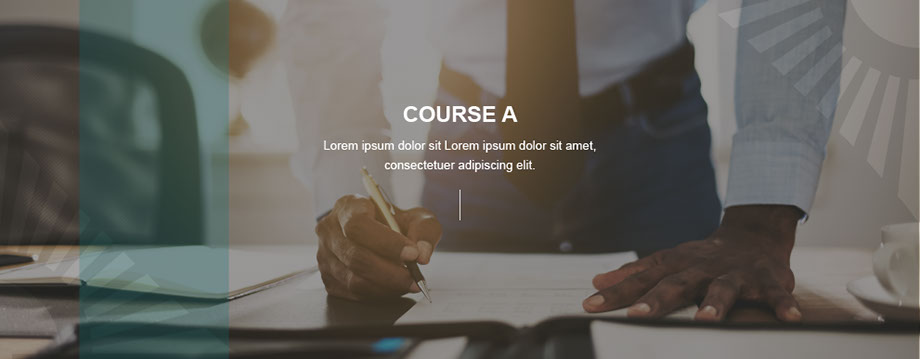
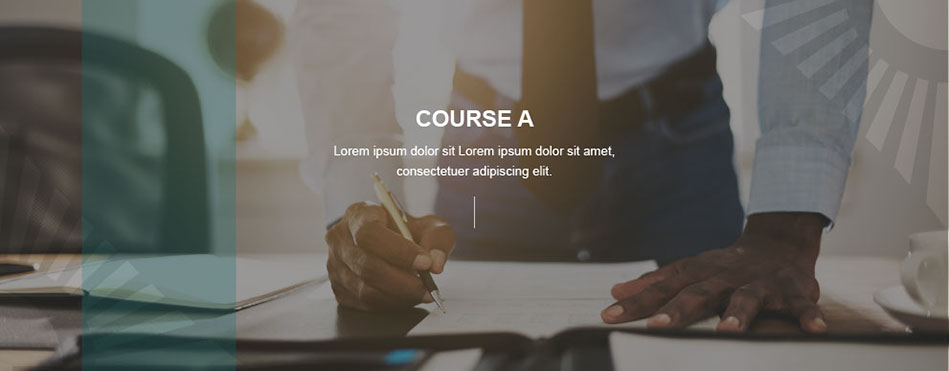
Add files via upload

Changed region(s): [[0.3348, 0.3983, 0.6696, 0.4903], [0.4565, 0.2758, 0.5783, 0.337]]

diff --git a/index.html b/index.html
@@ -11,90 +11,157 @@
 document.documentElement.className = document.documentElement.className.replace(/\bnojs\b/g, 'js');
 
 // Check that all required assets are uploaded and up-to-date
-if(typeof Muse == "undefined") window.Muse = {}; window.Muse.assets = {"required":["museutils.js", "museconfig.js", "jquery.watch.js", "webpro.js", "musewpslideshow.js", "jquery.museoverlay.js", "touchswipe.js", "require.js", "index.css"], "outOfDate":[]};
+if(typeof Muse == "undefined") window.Muse = {}; window.Muse.assets = {"required":["museutils.js", "museconfig.js", "jquery.watch.js", "webpro.js", "musewpslideshow.js", "jquery.museoverlay.js", "touchswipe.js", "jquery.museresponsive.js", "require.js", "index.css"], "outOfDate":[]};
 </script>
   
   <title>Home</title>
   <!-- CSS -->
   <link rel="stylesheet" type="text/css" href="css/site_global.css?crc=444006867"/>
-  <link rel="stylesheet" type="text/css" href="css/index.css?crc=4106648807" id="pagesheet"/>
+  <link rel="stylesheet" type="text/css" href="css/index.css?crc=496673846" id="pagesheet"/>
+  <!-- IE-only CSS -->
+  <!--[if lt IE 9]>
+  <link rel="stylesheet" type="text/css" href="css/nomq_index.css?crc=4022857590" id="nomq_pagesheet"/>
+  <![endif]-->
    </head>
  <body>
 
-  <div class="clearfix borderbox" id="page"><!-- column -->
-   <div class="SlideShowWidget clearfix colelem" id="slideshowu511" data-visibility="changed" style="visibility:hidden"><!-- none box -->
-    <div class="popup_anchor allow_click_through grpelem" data-col-pos="0" id="u521popup">
-     <div class="SlideShowContentPanel clearfix" data-col-pos="0" id="u521"><!-- stack box -->
-      <div class="SSSlide clip_frame grpelem" data-col-pos="0" id="u690"><!-- image -->
-       <img class="block ImageInclude" data-col-pos="0" id="u690_img" data-src="images/a-crop-u690.jpg?crc=49518448" src="images/blank.gif?crc=4208392903" alt="" data-heightwidthratio="0.39021739130434785" data-image-width="920" data-image-height="359"/>
-      </div>
-      <div class="SSSlide invi clip_frame grpelem" data-col-pos="1" id="u710"><!-- image -->
-       <img class="block ImageInclude" data-col-pos="1" id="u710_img" data-src="images/b-crop-u710.jpg?crc=4045455364" src="images/blank.gif?crc=4208392903" alt="" data-heightwidthratio="0.39021739130434785" data-image-width="920" data-image-height="359"/>
-      </div>
-      <div class="SSSlide invi clip_frame grpelem" data-col-pos="2" id="u730"><!-- image -->
-       <img class="block ImageInclude" data-col-pos="2" id="u730_img" data-src="images/c-crop-u730.jpg?crc=4042720279" src="images/blank.gif?crc=4208392903" alt="" data-heightwidthratio="0.39021739130434785" data-image-width="920" data-image-height="359"/>
-      </div>
-      <div class="SSSlide invi clip_frame grpelem" data-col-pos="3" id="u750"><!-- image -->
-       <img class="block ImageInclude" data-col-pos="3" id="u750_img" data-src="images/d-crop-u750.jpg?crc=3863075075" src="images/blank.gif?crc=4208392903" alt="" data-heightwidthratio="0.39021739130434785" data-image-width="920" data-image-height="359"/>
-      </div>
-      <div class="SSSlide invi clip_frame grpelem" data-col-pos="4" id="u770"><!-- image -->
-       <img class="block ImageInclude" data-col-pos="4" id="u770_img" data-src="images/e-crop-u770.jpg?crc=3830945720" src="images/blank.gif?crc=4208392903" alt="" data-heightwidthratio="0.39021739130434785" data-image-width="920" data-image-height="359"/>
-      </div>
-      <div class="SSSlide invi clip_frame grpelem" data-col-pos="5" id="u790"><!-- image -->
-       <img class="block ImageInclude" data-col-pos="5" id="u790_img" data-src="images/f-crop-u790.jpg?crc=374888351" src="images/blank.gif?crc=4208392903" alt="" data-heightwidthratio="0.39021739130434785" data-image-width="920" data-image-height="359"/>
-      </div>
-     </div>
-    </div>
-    <div class="popup_anchor allow_click_through grpelem" data-col-pos="2" id="u514popup">
-     <div class="SlideShowCaptionPanel clearfix" data-col-pos="2" id="u514" data-sizePolicy="fixed" data-pintopage="page_fluidx"><!-- stack box -->
-      <div class="SSSlideCaption clearfix grpelem" data-col-pos="0" id="u702-4" data-sizePolicy="fixed" data-pintopage="page_fluidx"><!-- content -->
-       <div id="u702-3">
-        <p>START THIS MODULE</p>
+  <div class="breakpoint active" id="bp_infinity" data-min-width="961"><!-- responsive breakpoint node -->
+   <div class="clearfix borderbox" id="page"><!-- column -->
+    <div class="SlideShowWidget clearfix colelem" id="slideshowu511" data-visibility="changed" style="visibility:hidden"><!-- none box -->
+     <div class="popup_anchor allow_click_through grpelem" data-col-pos="0" id="u521popup">
+      <div class="SlideShowContentPanel clearfix" data-col-pos="0" id="u521"><!-- stack box -->
+       <div class="SSSlide clip_frame grpelem" data-col-pos="0" id="u690"><!-- image -->
+        <img class="block ImageInclude" data-col-pos="0" id="u690_img" data-src="images/a-crop-u690.jpg?crc=4872680" src="images/blank.gif?crc=4208392903" alt="" data-heightwidthratio="0.3909378292939937" data-image-width="949" data-image-height="371"/>
        </div>
-      </div>
-      <div class="SSSlideCaption invi clearfix grpelem" data-col-pos="1" id="u722-4" data-sizePolicy="fixed" data-pintopage="page_fluidx"><!-- content -->
-       <div id="u722-3">
-        <p>START THIS MODULE</p>
+       <div class="SSSlide invi clip_frame grpelem" data-col-pos="1" id="u710"><!-- image -->
+        <img class="block ImageInclude" data-col-pos="1" id="u710_img" data-src="images/b-crop-u710.jpg?crc=3804591906" src="images/blank.gif?crc=4208392903" alt="" data-heightwidthratio="0.3909378292939937" data-image-width="949" data-image-height="371"/>
        </div>
-      </div>
-      <div class="SSSlideCaption invi clearfix grpelem" data-col-pos="2" id="u742-4" data-sizePolicy="fixed" data-pintopage="page_fluidx"><!-- content -->
-       <div id="u742-3">
-        <p>START THIS MODULE</p>
+       <div class="SSSlide invi clip_frame grpelem" data-col-pos="2" id="u730"><!-- image -->
+        <img class="block ImageInclude" data-col-pos="2" id="u730_img" data-src="images/c-crop-u730.jpg?crc=24679265" src="images/blank.gif?crc=4208392903" alt="" data-heightwidthratio="0.3909378292939937" data-image-width="949" data-image-height="371"/>
        </div>
-      </div>
-      <div class="SSSlideCaption invi clearfix grpelem" data-col-pos="3" id="u762-4" data-sizePolicy="fixed" data-pintopage="page_fluidx"><!-- content -->
-       <div id="u762-3">
-        <p>START THIS MODULE</p>
+       <div class="SSSlide invi clip_frame grpelem" data-col-pos="3" id="u750"><!-- image -->
+        <img class="block ImageInclude" data-col-pos="3" id="u750_img" data-src="images/d-crop-u750.jpg?crc=3785690336" src="images/blank.gif?crc=4208392903" alt="" data-heightwidthratio="0.3909378292939937" data-image-width="949" data-image-height="371"/>
        </div>
-      </div>
-      <div class="SSSlideCaption invi clearfix grpelem" data-col-pos="4" id="u782-4" data-sizePolicy="fixed" data-pintopage="page_fluidx"><!-- content -->
-       <div id="u782-3">
-        <p>START THIS MODULE</p>
+       <div class="SSSlide invi clip_frame grpelem" data-col-pos="4" id="u770"><!-- image -->
+        <img class="block ImageInclude" data-col-pos="4" id="u770_img" data-src="images/e-crop-u770.jpg?crc=337654728" src="images/blank.gif?crc=4208392903" alt="" data-heightwidthratio="0.3909378292939937" data-image-width="949" data-image-height="371"/>
        </div>
-      </div>
-      <div class="SSSlideCaption invi clearfix grpelem" data-col-pos="5" id="u802-4" data-sizePolicy="fixed" data-pintopage="page_fluidx"><!-- content -->
-       <div id="u802-3">
-        <p>START THIS MODULE</p>
+       <div class="SSSlide invi clip_frame grpelem" data-col-pos="5" id="u790"><!-- image -->
+        <img class="block ImageInclude" data-col-pos="5" id="u790_img" data-src="images/f-crop-u790.jpg?crc=4242767187" src="images/blank.gif?crc=4208392903" alt="" data-heightwidthratio="0.3909378292939937" data-image-width="949" data-image-height="371"/>
        </div>
       </div>
      </div>
-    </div>
-    <div class="popup_anchor allow_click_through grpelem" data-col-pos="7" id="u536-4popup">
-     <div class="SSPreviousButton clearfix" data-col-pos="7" id="u536-4"><!-- content -->
-      <div id="u536-3">
-       <p>&lt;</p>
+     <div class="popup_anchor allow_click_through grpelem" data-col-pos="2" id="u514popup">
+      <div class="SlideShowCaptionPanel clearfix" data-col-pos="2" id="u514" data-sizePolicy="fixed" data-pintopage="page_fluidx"><!-- stack box -->
+       <div class="SSSlideCaption clearfix grpelem" data-col-pos="0" id="u702-4" data-sizePolicy="fixed" data-pintopage="page_fluidx"><!-- content -->
+        <div id="u702-3" class="shared_content" data-content-guid="u702-3_content">
+         <p>START THIS MODULE</p>
+        </div>
+       </div>
+       <div class="SSSlideCaption invi clearfix grpelem" data-col-pos="1" id="u722-4" data-sizePolicy="fixed" data-pintopage="page_fluidx"><!-- content -->
+        <div id="u722-3" class="shared_content" data-content-guid="u722-3_content">
+         <p>START THIS MODULE</p>
+        </div>
+       </div>
+       <div class="SSSlideCaption invi clearfix grpelem" data-col-pos="2" id="u742-4" data-sizePolicy="fixed" data-pintopage="page_fluidx"><!-- content -->
+        <div id="u742-3" class="shared_content" data-content-guid="u742-3_content">
+         <p>START THIS MODULE</p>
+        </div>
+       </div>
+       <div class="SSSlideCaption invi clearfix grpelem" data-col-pos="3" id="u762-4" data-sizePolicy="fixed" data-pintopage="page_fluidx"><!-- content -->
+        <div id="u762-3" class="shared_content" data-content-guid="u762-3_content">
+         <p>START THIS MODULE</p>
+        </div>
+       </div>
+       <div class="SSSlideCaption invi clearfix grpelem" data-col-pos="4" id="u782-4" data-sizePolicy="fixed" data-pintopage="page_fluidx"><!-- content -->
+        <div id="u782-3" class="shared_content" data-content-guid="u782-3_content">
+         <p>START THIS MODULE</p>
+        </div>
+       </div>
+       <div class="SSSlideCaption invi clearfix grpelem" data-col-pos="5" id="u802-4" data-sizePolicy="fixed" data-pintopage="page_fluidx"><!-- content -->
+        <div id="u802-3" class="shared_content" data-content-guid="u802-3_content">
+         <p>START THIS MODULE</p>
+        </div>
+       </div>
+      </div>
+     </div>
+     <div class="popup_anchor allow_click_through grpelem" data-col-pos="7" id="u536-4popup">
+      <div class="SSPreviousButton clearfix" data-col-pos="7" id="u536-4"><!-- content -->
+       <div id="u536-3" class="shared_content" data-content-guid="u536-3_content">
+        <p>&lt;</p>
+       </div>
+      </div>
+     </div>
+     <div class="popup_anchor allow_click_through grpelem" data-col-pos="8" id="u520-4popup">
+      <div class="SSNextButton clearfix" data-col-pos="8" id="u520-4"><!-- content -->
+       <div id="u520-3" class="shared_content" data-content-guid="u520-3_content">
+        <p>&gt;</p>
+       </div>
       </div>
      </div>
     </div>
-    <div class="popup_anchor allow_click_through grpelem" data-col-pos="8" id="u520-4popup">
-     <div class="SSNextButton clearfix" data-col-pos="8" id="u520-4"><!-- content -->
-      <div id="u520-3">
-       <p>&gt;</p>
-      </div>
-     </div>
-    </div>
+    <div class="verticalspacer" data-offset-top="390" data-content-above-spacer="390" data-content-below-spacer="9" data-sizePolicy="fixed" data-pintopage="page_fixedLeft"></div>
    </div>
-   <div class="verticalspacer" data-offset-top="379" data-content-above-spacer="379" data-content-below-spacer="21" data-sizePolicy="fixed" data-pintopage="page_fixedLeft"></div>
+  </div>
+  <div class="breakpoint" id="bp_960" data-max-width="960"><!-- responsive breakpoint node -->
+   <div class="clearfix borderbox temp_no_id" data-orig-id="page"><!-- column -->
+    <div class="SlideShowWidget clearfix colelem temp_no_id" data-visibility="changed" style="visibility:hidden" data-orig-id="slideshowu511"><!-- none box -->
+     <div class="popup_anchor allow_click_through grpelem temp_no_id" data-col-pos="0" data-orig-id="u521popup">
+      <div class="SlideShowContentPanel clearfix temp_no_id" data-col-pos="0" data-orig-id="u521"><!-- stack box -->
+       <div class="SSSlide clip_frame grpelem temp_no_id" data-col-pos="0" data-orig-id="u690"><!-- image -->
+        <img class="block ImageInclude temp_no_id" data-col-pos="0" data-src="images/a-crop-u6902.jpg?crc=341620602" src="images/blank.gif?crc=4208392903" alt="" data-heightwidthratio="0.39021739130434785" data-image-width="920" data-image-height="359" data-orig-id="u690_img"/>
+       </div>
+       <div class="SSSlide invi clip_frame grpelem temp_no_id" data-col-pos="1" data-orig-id="u710"><!-- image -->
+        <img class="block ImageInclude temp_no_id" data-col-pos="1" data-src="images/b-crop-u7102.jpg?crc=4070637926" src="images/blank.gif?crc=4208392903" alt="" data-heightwidthratio="0.39021739130434785" data-image-width="920" data-image-height="359" data-orig-id="u710_img"/>
+       </div>
+       <div class="SSSlide invi clip_frame grpelem temp_no_id" data-col-pos="2" data-orig-id="u730"><!-- image -->
+        <img class="block ImageInclude temp_no_id" data-col-pos="2" data-src="images/c-crop-u7302.jpg?crc=4185744435" src="images/blank.gif?crc=4208392903" alt="" data-heightwidthratio="0.39021739130434785" data-image-width="920" data-image-height="359" data-orig-id="u730_img"/>
+       </div>
+       <div class="SSSlide invi clip_frame grpelem temp_no_id" data-col-pos="3" data-orig-id="u750"><!-- image -->
+        <img class="block ImageInclude temp_no_id" data-col-pos="3" data-src="images/d-crop-u7502.jpg?crc=3872454443" src="images/blank.gif?crc=4208392903" alt="" data-heightwidthratio="0.39021739130434785" data-image-width="920" data-image-height="359" data-orig-id="u750_img"/>
+       </div>
+       <div class="SSSlide invi clip_frame grpelem temp_no_id" data-col-pos="4" data-orig-id="u770"><!-- image -->
+        <img class="block ImageInclude temp_no_id" data-col-pos="4" data-src="images/e-crop-u7702.jpg?crc=393116494" src="images/blank.gif?crc=4208392903" alt="" data-heightwidthratio="0.39021739130434785" data-image-width="920" data-image-height="359" data-orig-id="u770_img"/>
+       </div>
+       <div class="SSSlide invi clip_frame grpelem temp_no_id" data-col-pos="5" data-orig-id="u790"><!-- image -->
+        <img class="block ImageInclude temp_no_id" data-col-pos="5" data-src="images/f-crop-u7902.jpg?crc=453351812" src="images/blank.gif?crc=4208392903" alt="" data-heightwidthratio="0.39021739130434785" data-image-width="920" data-image-height="359" data-orig-id="u790_img"/>
+       </div>
+      </div>
+     </div>
+     <div class="popup_anchor allow_click_through grpelem temp_no_id" data-col-pos="2" data-orig-id="u514popup">
+      <div class="SlideShowCaptionPanel clearfix temp_no_id" data-col-pos="2" data-sizePolicy="fixed" data-pintopage="page_fluidx" data-orig-id="u514"><!-- stack box -->
+       <div class="SSSlideCaption clearfix grpelem temp_no_id" data-col-pos="0" data-sizePolicy="fixed" data-pintopage="page_fluidx" data-orig-id="u702-4"><!-- content -->
+        <span class="placeholder" data-placeholder-for="u702-3_content"><!-- placeholder node --></span>
+       </div>
+       <div class="SSSlideCaption invi clearfix grpelem temp_no_id" data-col-pos="1" data-sizePolicy="fixed" data-pintopage="page_fluidx" data-orig-id="u722-4"><!-- content -->
+        <span class="placeholder" data-placeholder-for="u722-3_content"><!-- placeholder node --></span>
+       </div>
+       <div class="SSSlideCaption invi clearfix grpelem temp_no_id" data-col-pos="2" data-sizePolicy="fixed" data-pintopage="page_fluidx" data-orig-id="u742-4"><!-- content -->
+        <span class="placeholder" data-placeholder-for="u742-3_content"><!-- placeholder node --></span>
+       </div>
+       <div class="SSSlideCaption invi clearfix grpelem temp_no_id" data-col-pos="3" data-sizePolicy="fixed" data-pintopage="page_fluidx" data-orig-id="u762-4"><!-- content -->
+        <span class="placeholder" data-placeholder-for="u762-3_content"><!-- placeholder node --></span>
+       </div>
+       <div class="SSSlideCaption invi clearfix grpelem temp_no_id" data-col-pos="4" data-sizePolicy="fixed" data-pintopage="page_fluidx" data-orig-id="u782-4"><!-- content -->
+        <span class="placeholder" data-placeholder-for="u782-3_content"><!-- placeholder node --></span>
+       </div>
+       <div class="SSSlideCaption invi clearfix grpelem temp_no_id" data-col-pos="5" data-sizePolicy="fixed" data-pintopage="page_fluidx" data-orig-id="u802-4"><!-- content -->
+        <span class="placeholder" data-placeholder-for="u802-3_content"><!-- placeholder node --></span>
+       </div>
+      </div>
+     </div>
+     <div class="popup_anchor allow_click_through grpelem temp_no_id" data-col-pos="7" data-orig-id="u536-4popup">
+      <div class="SSPreviousButton clearfix temp_no_id" data-col-pos="7" data-orig-id="u536-4"><!-- content -->
+       <span class="placeholder" data-placeholder-for="u536-3_content"><!-- placeholder node --></span>
+      </div>
+     </div>
+     <div class="popup_anchor allow_click_through grpelem temp_no_id" data-col-pos="8" data-orig-id="u520-4popup">
+      <div class="SSNextButton clearfix temp_no_id" data-col-pos="8" data-orig-id="u520-4"><!-- content -->
+       <span class="placeholder" data-placeholder-for="u520-3_content"><!-- placeholder node --></span>
+      </div>
+     </div>
+    </div>
+    <div class="verticalspacer" data-offset-top="379" data-content-above-spacer="379" data-content-below-spacer="21" data-sizePolicy="fixed" data-pintopage="page_fixedLeft"></div>
+   </div>
   </div>
   <!-- Other scripts -->
   <script type="text/javascript">
@@ -107,15 +174,15 @@ var suppressMissingFileError = false
 k[1]:null,k=k&&k[2]?k[2]:null;switch(k.toLowerCase()){case "css":i=i.replace(/\W/gi,"_").replace(/^([^a-z])/gi,"_$1");g.className+=" "+i;i=a(d(g,"color"));k=a(d(g,"backgroundColor"));i!=0||k!=0?(Muse.assets.required.splice(j,1),"undefined"!=typeof b[l]&&(i!=b[l]>>>24||k!=(b[l]&16777215))&&Muse.assets.outOfDate.push(l)):j++;g.className="version";break;case "js":j++;break;default:throw Error("Unsupported file type: "+k);}}c?c().jquery!="1.8.3"&&Muse.assets.outOfDate.push("jquery-1.8.3.min.js"):Muse.assets.required.push("jquery-1.8.3.min.js");
 g.parentNode.removeChild(g);if(Muse.assets.outOfDate.length||Muse.assets.required.length)g="Some files on the server may be missing or incorrect. Clear browser cache and try again. If the problem persists please contact website author.",f&&Muse.assets.outOfDate.length&&(g+="\nOut of date: "+Muse.assets.outOfDate.join(",")),f&&Muse.assets.required.length&&(g+="\nMissing: "+Muse.assets.required.join(",")),suppressMissingFileError?(g+="\nUse SuppressMissingFileError key in AppPrefs.xml to show missing file error pop up.",console.log(g)):alert(g)};location&&location.search&&location.search.match&&location.search.match(/muse_debug/gi)?
 setTimeout(function(){f(!0)},5E3):f()}};
-var muse_init=function(){require.config({baseUrl:""});require(["jquery","museutils","whatinput","jquery.watch","webpro","musewpslideshow","jquery.museoverlay","touchswipe"],function(c){var $ = c;$(document).ready(function(){try{
+var muse_init=function(){require.config({baseUrl:""});require(["jquery","museutils","whatinput","jquery.watch","webpro","musewpslideshow","jquery.museoverlay","touchswipe","jquery.museresponsive"],function(c){var $ = c;$(document).ready(function(){try{
 window.Muse.assets.check($);/* body */
 Muse.Utils.transformMarkupToFixBrowserProblemsPreInit();/* body */
 Muse.Utils.prepHyperlinks(true);/* body */
 Muse.Utils.resizeHeight('.popup_anchor.allow_click_through');/* resize height */
 Muse.Utils.makeButtonsVisibleAfterSettingMinWidth();/* body */
-Muse.Utils.initWidget('#slideshowu511', ['#bp_infinity'], function(elem) { var widget = new WebPro.Widget.ContentSlideShow(elem, {autoPlay:true,displayInterval:10000,slideLinkStopsSlideShow:false,transitionStyle:'fading',lightboxEnabled_runtime:false,shuffle:false,transitionDuration:1000,enableSwipe:true,elastic:'off',resumeAutoplay:true,resumeAutoplayInterval:3000,playOnce:false,autoActivate_runtime:false,isResponsive:true}); $(elem).data('widget', widget); return widget; });/* #slideshowu511 */
+Muse.Utils.initWidget('#slideshowu511', ['#bp_infinity', '#bp_960'], function(elem) { var widget = new WebPro.Widget.ContentSlideShow(elem, {autoPlay:true,displayInterval:10000,slideLinkStopsSlideShow:false,transitionStyle:'fading',lightboxEnabled_runtime:false,shuffle:false,transitionDuration:1000,enableSwipe:true,elastic:'off',resumeAutoplay:true,resumeAutoplayInterval:3000,playOnce:false,autoActivate_runtime:false,isResponsive:true}); $(elem).data('widget', widget); return widget; });/* #slideshowu511 */
 Muse.Utils.fullPage('#page');/* 100% height page */
-Muse.Utils.showWidgetsWhenReady();/* body */
+$( '.breakpoint' ).registerBreakpoint();/* Register breakpoints */
 Muse.Utils.transformMarkupToFixBrowserProblems();/* body */
 }catch(b){if(b&&"function"==typeof b.notify?b.notify():Muse.Assert.fail("Error calling selector function: "+b),false)throw b;}})})};
 

diff --git a/css/index.css b/css/index.css
@@ -1,1 +1,1 @@
-.version.index{color:#0000F4;background-color:#C67CE7;}#page{z-index:1;min-height:358.99999999999994px;background-image:none;border-width:0px;border-color:#000000;background-color:transparent;padding-top:20px;padding-bottom:21.000000000000057px;width:100%;max-width:960px;margin-left:auto;margin-right:auto;}#slideshowu511{z-index:2;position:relative;width:95.84%;margin-left:2.09%;}#u521{position:absolute;background-color:transparent;width:100%;}#u521popup{z-index:3;height:359px;margin-right:-10000px;width:100%;}#u690{z-index:4;min-height:5px;border-width:0px;border-color:transparent;background-color:transparent;margin-right:-10000px;position:relative;width:100%;}#u710{z-index:6;min-height:5px;border-width:0px;border-color:transparent;background-color:transparent;margin-right:-10000px;position:relative;width:100%;}#u730{z-index:8;min-height:5px;border-width:0px;border-color:transparent;background-color:transparent;margin-right:-10000px;position:relative;width:100%;}#u750{z-index:10;min-height:5px;border-width:0px;border-color:transparent;background-color:transparent;margin-right:-10000px;position:relative;width:100%;}#u770{z-index:12;min-height:5px;border-width:0px;border-color:transparent;background-color:transparent;margin-right:-10000px;position:relative;width:100%;}#u790{z-index:14;min-height:5px;border-width:0px;border-color:transparent;background-color:transparent;margin-right:-10000px;position:relative;width:100%;}#u690_img,#u710_img,#u730_img,#u750_img,#u770_img,#u790_img{width:100%;}#u514{position:absolute;width:201px;height:44px;background-color:transparent;}#u514popup{z-index:16;margin-top:219px;width:201px;height:44px;margin-right:-10000px;margin-left:39.03%;}#u702-4{z-index:17;width:197px;height:20px;border-style:solid;border-width:2px;border-color:#D6D3D1;background-color:transparent;padding-top:10px;padding-bottom:10px;margin-right:-10000px;position:relative;}#u702-3{color:#FFFFFF;line-height:20px;text-align:center;font-family:Helvetica, Helvetica Neue, Arial, sans-serif;margin-left:5.08%;margin-right:5.0761421319796955%;}#u722-4{z-index:21;width:197px;height:20px;border-style:solid;border-width:2px;border-color:#D6D3D1;background-color:transparent;padding-top:10px;padding-bottom:10px;margin-right:-10000px;position:relative;}#u742-4{z-index:25;width:197px;height:20px;border-style:solid;border-width:2px;border-color:#D6D3D1;background-color:transparent;padding-top:10px;padding-bottom:10px;margin-right:-10000px;position:relative;}#u762-4{z-index:29;width:197px;height:20px;border-style:solid;border-width:2px;border-color:#D6D3D1;background-color:transparent;padding-top:10px;padding-bottom:10px;margin-right:-10000px;position:relative;}#u782-4{z-index:33;width:197px;height:20px;border-style:solid;border-width:2px;border-color:#D6D3D1;background-color:transparent;padding-top:10px;padding-bottom:10px;margin-right:-10000px;position:relative;}#u802-4{z-index:37;width:197px;height:20px;border-style:solid;border-width:2px;border-color:#D6D3D1;background-color:transparent;padding-top:10px;padding-bottom:10px;margin-right:-10000px;position:relative;}#u702-4:hover,#u722-4:hover,#u742-4:hover,#u762-4:hover,#u782-4:hover,#u802-4:hover{border-width:0px;border-color:transparent;background-color:#C1272D;padding-top:10px;padding-bottom:10px;min-height:0px;width:197px;height:20px;margin:2px -9998px 2px 0.9950248756218906%;}#u702-4:hover p,#u722-4:hover p,#u742-4:hover p,#u762-4:hover p,#u782-4:hover p,#u802-4:hover p{color:#FFFFFF;visibility:inherit;}#u722-3,#u742-3,#u762-3,#u782-3,#u802-3{color:#D6D3D1;line-height:20px;text-align:center;font-family:Helvetica, Helvetica Neue, Arial, sans-serif;margin-left:5.08%;margin-right:5.0761421319796955%;}#u536-4popup{z-index:41;margin-top:143px;height:76px;margin-right:-10000px;width:5.87%;}#u536-4,#u520-4{position:absolute;min-height:56px;border-width:0px;border-color:transparent;background-color:transparent;padding-top:10px;padding-bottom:10px;width:100%;}#u520-4popup{z-index:45;margin-top:143px;height:76px;margin-right:-10000px;width:5.87%;margin-left:94.14%;}#u536-3,#u520-3{color:#FFFFFF;line-height:50px;text-align:center;font-size:36px;font-family:Helvetica, Helvetica Neue, Arial, sans-serif;margin-left:18.52%;margin-right:18.51851851851852%;}.SSFirstButton,.SSPreviousButton,.SSNextButton,.SSLastButton,.SSSlideLink,.SSCloseButton{cursor:pointer;}.SSSlideLoading{background:url("../images/loading.gif?crc=3815509949") no-repeat center center;}.css_verticalspacer .verticalspacer{height:calc(100vh - 400px);}#muse_css_mq,.html{background-color:#FFFFFF;}body{position:relative;min-width:320px;}
+.version.index{color:#00001D;background-color:#9AA436;}#page{margin-left:auto;border-width:0px;z-index:1;padding-top:20px;background-color:transparent;margin-right:auto;border-color:#000000;width:100%;background-image:none;}#slideshowu511{z-index:2;position:relative;}#u521{position:absolute;width:100%;background-color:transparent;}#u521popup{margin-right:-10000px;z-index:3;width:100%;}#u690{margin-right:-10000px;min-height:5px;border-width:0px;border-color:transparent;z-index:4;width:100%;position:relative;background-color:transparent;}#u710{margin-right:-10000px;min-height:5px;border-width:0px;border-color:transparent;z-index:6;width:100%;position:relative;background-color:transparent;}#u730{margin-right:-10000px;min-height:5px;border-width:0px;border-color:transparent;z-index:8;width:100%;position:relative;background-color:transparent;}#u750{margin-right:-10000px;min-height:5px;border-width:0px;border-color:transparent;z-index:10;width:100%;position:relative;background-color:transparent;}#u770{margin-right:-10000px;min-height:5px;border-width:0px;border-color:transparent;z-index:12;width:100%;position:relative;background-color:transparent;}#u790{margin-right:-10000px;min-height:5px;border-width:0px;border-color:transparent;z-index:14;width:100%;position:relative;background-color:transparent;}#u690_img,#u710_img,#u730_img,#u750_img,#u770_img,#u790_img{width:100%;}#u514{position:absolute;width:201px;background-color:transparent;height:44px;}#u514popup{width:201px;margin-right:-10000px;z-index:16;height:44px;}#u702-4{border-color:#D6D3D1;width:197px;margin-right:-10000px;background-color:transparent;border-width:2px;border-style:solid;padding-bottom:10px;z-index:17;position:relative;padding-top:10px;height:20px;}#u702-3{color:#FFFFFF;margin-right:5.0761421319796955%;text-align:center;line-height:20px;font-family:Helvetica, Helvetica Neue, Arial, sans-serif;margin-left:5.08%;}#u722-4{border-color:#D6D3D1;width:197px;margin-right:-10000px;background-color:transparent;border-width:2px;border-style:solid;padding-bottom:10px;z-index:21;position:relative;padding-top:10px;height:20px;}#u742-4{border-color:#D6D3D1;width:197px;margin-right:-10000px;background-color:transparent;border-width:2px;border-style:solid;padding-bottom:10px;z-index:25;position:relative;padding-top:10px;height:20px;}#u762-4{border-color:#D6D3D1;width:197px;margin-right:-10000px;background-color:transparent;border-width:2px;border-style:solid;padding-bottom:10px;z-index:29;position:relative;padding-top:10px;height:20px;}#u782-4{border-color:#D6D3D1;width:197px;margin-right:-10000px;background-color:transparent;border-width:2px;border-style:solid;padding-bottom:10px;z-index:33;position:relative;padding-top:10px;height:20px;}#u802-4{border-color:#D6D3D1;width:197px;margin-right:-10000px;background-color:transparent;border-width:2px;border-style:solid;padding-bottom:10px;z-index:37;position:relative;padding-top:10px;height:20px;}#u702-4:hover,#u722-4:hover,#u742-4:hover,#u762-4:hover,#u782-4:hover,#u802-4:hover{min-height:0px;border-width:0px;padding-bottom:10px;padding-top:10px;background-color:#C1272D;border-color:transparent;width:197px;height:20px;margin:2px -9998px 2px 0.9950248756218906%;}#u702-4:hover p,#u722-4:hover p,#u742-4:hover p,#u762-4:hover p,#u782-4:hover p,#u802-4:hover p{visibility:inherit;color:#FFFFFF;}#u722-3,#u742-3,#u762-3,#u782-3,#u802-3{color:#D6D3D1;margin-right:5.0761421319796955%;text-align:center;line-height:20px;font-family:Helvetica, Helvetica Neue, Arial, sans-serif;margin-left:5.08%;}#u536-4popup{z-index:41;margin-right:-10000px;margin-top:143px;height:76px;}#u536-4,#u520-4{border-width:0px;min-height:56px;position:absolute;border-color:transparent;padding-bottom:10px;width:100%;padding-top:10px;background-color:transparent;}#u520-4popup{margin-right:-10000px;z-index:45;margin-top:143px;height:76px;}#u536-3,#u520-3{color:#FFFFFF;font-family:Helvetica, Helvetica Neue, Arial, sans-serif;text-align:center;line-height:50px;font-size:36px;}.SSFirstButton,.SSPreviousButton,.SSNextButton,.SSLastButton,.SSSlideLink,.SSCloseButton{cursor:pointer;}.SSSlideLoading{background:url("../images/loading.gif?crc=3815509949") no-repeat center center;}.html{background-color:#FFFFFF;}body{position:relative;}@media (min-width: 961px), print{#muse_css_mq{background-color:#FFFFFF;}#bp_infinity.active{display:block;}#page{min-height:369.78124999999994px;padding-bottom:10.218750000000057px;max-width:990px;}#slideshowu511{width:95.86%;margin-left:2.13%;}#u521popup{height:370px;}#u514popup{margin-top:225px;margin-left:39.1%;}#u536-4popup{width:5.91%;}#u520-4popup{width:5.91%;margin-left:94.1%;}#u536-3,#u520-3{margin-left:17.96%;margin-right:17.957351290684624%;}.css_verticalspacer .verticalspacer{height:calc(100vh - 399px);}}@media (max-width: 960px){#muse_css_mq{background-color:#0003c0;}#bp_960.active{display:block;}#page{min-height:358.99999999999994px;padding-bottom:21.000000000000057px;max-width:960px;}#slideshowu511{width:95.84%;margin-left:2.09%;}#u521popup{height:359px;}#u514popup{margin-top:219px;margin-left:39.03%;}#u536-4popup{width:5.87%;}#u520-4popup{width:5.87%;margin-left:94.14%;}#u536-3,#u520-3{margin-left:18.52%;margin-right:18.51851851851852%;}.css_verticalspacer .verticalspacer{height:calc(100vh - 400px);}body{overflow-x:hidden;min-width:320px;}}

diff --git a/scripts/jquery.museresponsive.js b/scripts/jquery.museresponsive.js
@@ -1,0 +1,16 @@
+/*
+ Copyright 2011-2016 Adobe Systems Incorporated. All Rights Reserved.
+*/
+(function(c){"function"===typeof define&&define.amd&&define.amd.jQuery?define(["jquery","museutils"],c):c(jQuery)})(function(c){var b="undefined"!==typeof console&&console.log&&console.log.bind?console.log.bind(console,"[MR]"):function(){},d=!0,a=c(window),f=function(a){var c=null,d=null,f=null,g=a.parent().children().length,h=a.index();1==g?c=a.parent():0==h?f=a.next():d=a.prev();this.getNode=function(){return a};this.swapWith=function(a){c?c.append(a.getNode()):d?d.after(a.getNode()):f?f.before(a.getNode()):
+b("WARNING: Invalid state - either parent, prev, next should have a valid value")}},h=function(a,b){var d=new f(a),g=new f(b);c("script",b).remove();d.swapWith(g);g.swapWith(d);d=a.attr("class");a.attr("class",b.attr("class"));b.attr("class",d);g=["temp_no_id","temp_no_img_src"];for(d=0;d<g.length;d++)a.hasClass(g[d])&&(a.removeClass(g[d]),b.addClass(g[d]));if(b.closest("form").length&&(b.hasClass("wrapped-input")||b.is("p")&&b.parents(".fld-message").length)){for(var g=a.closest("form"),h=b.closest("form"),
+j=a.closest(".fld-grp"),l=b.closest(".fld-grp"),r=["non-empty-st","focus-st","fld-err-st"],d=0;d<r.length;d++)j.length&&l.length&&j.hasClass(r[d])&&!l.hasClass(r[d])&&(j.removeClass(r[d]),l.addClass(r[d]));r=["frm-subm-err-st","frm-subm-ok-st","frm-sub-st"];for(d=0;d<r.length;d++)g.length&&h.length&&g.hasClass(r[d])&&!h.hasClass(r[d])&&(g.removeClass(r[d]),h.addClass(r[d]))}b.removeClass("placeholder").addClass("shared_content");a.addClass("placeholder").removeClass("shared_content")},g=function(f){f.data("bpObj",
+this);var g=this,m=f.hasClass("active"),n=function(a){a==m?b('WARNING: Setting the same "active" state twice',this.toString()):(m=a)?(f.addClass("active"),l.trigger("muse_bp_activate",[j,f,g]),f.trigger("muse_this_bp_activate")):(f.removeClass("active"),l.trigger("muse_bp_deactivate",[j,f,g]),f.trigger("muse_this_bp_deactivate"))},j=function(){var a=f.attr("data-min-width")||void 0,b=f.attr("data-max-width")||void 0,c="";void 0!==a&&(c+=(c?" and ":"")+"(min-width: "+a+"px)");void 0!==b&&(c+=(c?" and ":
+"")+"(max-width: "+b+"px)");return c}(),l=c("body");this.getCondition=function(){return j};this.isActive=function(){return m};this.isMatched=function(){var g;g=c("#muse_css_mq").css("background-color");g.match(/^rgb/)?(g=g.replace(/\s+/g,"").match(/([\d\,]+)/gi)[0].split(","),g=(parseInt(g[0])<<16)+(parseInt(g[1])<<8)+parseInt(g[2])):g=g.match(/^\#/)?parseInt(g.substr(1),16):0;var h=f.attr("data-max-width")||16777215;16777214==g&&b("WARNING: No media query was matched by the CSS.");d&&g<a.width()&&
+(d=!1,c("html").addClass("always_vert_scroll"));return h==g};this.activateImages=function(){var a=0;c(".temp_no_img_src",f).each(function(){var b=c(this);a++;b.removeClass("temp_no_img_src").attr("src",b.attr("data-orig-src")).removeAttr("data-orig-src")})};this.swapPlaceholderNodesRecursively=function(a){var d=this;c(".placeholder",a).each(function(){var a=c(this),f=a.attr("data-placeholder-for");if(f){var g=c(".shared_content").filter(function(a,b){return f==c(b).attr("data-content-guid")});0==
+g.length?b("WARNING: Could not find content node with GUID",f):1<g.length?b("WARNING: Found",g.length,"content nodes with GUID",f,", expected only 1"):(h(a,g),d.swapPlaceholderNodesRecursively(g))}else b("WARNING: Invalid placeholder-for data property for placeholder node",a)})};this.activateIDs=function(a){c(".temp_no_id",a).each(function(){var a=c(this),d=a.attr("data-orig-id"),f=c("#"+d);1==f.length?f.removeAttr("id").attr("data-orig-id",d).addClass("temp_no_id"):b("WARNING: Expected to find 1 node with id",
+d,"but found",f.length);a.removeAttr("data-orig-id").attr("id",d).removeClass("temp_no_id")})};this.activate=function(){m?b("WARNING: Trying to activate same breakpoint twice",this.toString()):(this.swapPlaceholderNodesRecursively(f),this.activateIDs(f),this.activateImages(),n(!0))};this.deactivate=function(){m?n(!1):b("WARNING: Trying to deactivate same breakpoint twice",this.toString())};this.onRegisterAlreadyActiveBP=function(){this.activateImages();l.trigger("muse_bp_activate",[j,f,g]);f.trigger("muse_this_bp_activate")};
+this.toString=function(){return"[Breakpoint "+j+", "+(m?"active":"not active")+", "+(this.isMatched()?"matched":"not matched")+"]"}},j=new function(){var d=function(c){if(c)if(c==j)b("WARNING: breakpoint is already active.");else{j&&j.deactivate();j=c;a.data("muse-mq",c.getCondition());h.attr("data-content",j.toString());if(!c.isActive())return j.activate(),!0;return!1}else b("WARNING: Cannot update active breakpoint NULL.")},f=function(){for(var a=0;a<r.length;a++)if(r[a].isMatched())return r[a];
+b("WARNING: Could not find any active breakpoint");return null},g=function(){if(!j||!j.isMatched()){var b=f();b&&!b.isActive()&&(c("body").addClass("awaiting_bp_activate_scroll"),d(b));var g=o;setTimeout(function(){a.scrollTop(g);a.trigger("scroll");c("body").removeClass("awaiting_bp_activate_scroll")},16)}else o=a.scrollTop()},h=c(".css-section-debug .js"),j=null,l=!1,o=0,r=[];this.registerBreakpoint=function(a){r.push(a);if(a.isMatched()){if(!d(a))a.onRegisterAlreadyActiveBP()}else a.isActive()&&
+a.deactivate()};this.watchBreakpointChanges=function(){l||(a.on("resize",function(){Muse.Utils.requestAnimationFrame(function(){g()})}),g(),l=!0)}},l=null;c.fn.registerBreakpoint=function(){if(!window.matchMedia&&"undefined"==typeof window.CSSMediaRule)b("WARNING: Browser does not support media queries."),this.each(function(){var a=c(this);if(void 0===(a.attr("data-max-width")||void 0)){var b=new g(a);b.activateImages();c("body").trigger("muse_bp_activate",[b.getCondition(),a,b]);a.trigger("muse_this_bp_activate")}});
+else return null==l&&(l=c("body").append('<div id="muse_css_mq"></div>')),this.each(function(){j.registerBreakpoint(new g(c(this)))}),j.watchBreakpointChanges(),a.trigger("scroll"),this}});
+;(function(){if(!("undefined"==typeof Muse||"undefined"==typeof Muse.assets)){var c=function(a,b){for(var c=0,d=a.length;c<d;c++)if(a[c]==b)return c;return-1}(Muse.assets.required,"jquery.museresponsive.js");if(-1!=c){Muse.assets.required.splice(c,1);for(var c=document.getElementsByTagName("meta"),b=0,d=c.length;b<d;b++){var a=c[b];if("generator"==a.getAttribute("name")){"2018.1.0.386"!=a.getAttribute("content")&&Muse.assets.outOfDate.push("jquery.museresponsive.js");break}}}}})();

diff --git a/css/nomq_index.css b/css/nomq_index.css
@@ -1,0 +1,1 @@
+#muse_css_mq{background-color:#FFFFFF;}#bp_infinity.active{display:block;}#page{min-height:369.78124999999994px;padding-bottom:10.218750000000057px;max-width:990px;}#slideshowu511{width:95.86%;margin-left:2.13%;}#u521popup{height:370px;}#u514popup{margin-top:225px;margin-left:39.1%;}#u536-4popup{width:5.91%;}#u520-4popup{width:5.91%;margin-left:94.1%;}#u536-3,#u520-3{margin-left:17.96%;margin-right:17.957351290684624%;}.css_verticalspacer .verticalspacer{height:calc(100vh - 399px);}
